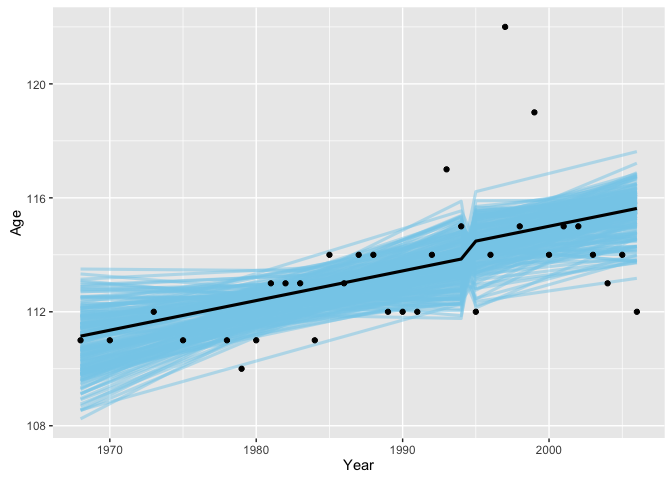
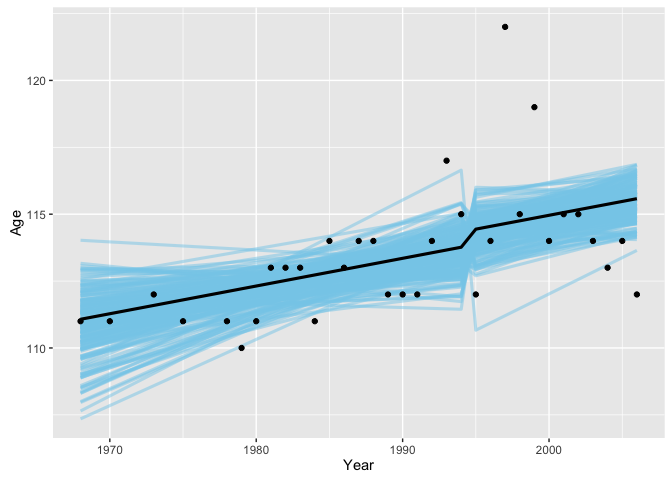
added plot from combined regression model to show it's the same.

diff --git a/analysis.md b/analysis.md
@@ -3,12 +3,12 @@ Technical comment on Evidence for a limit to human lifespan
 Philipp Berens and Tom Wallis
 October 9, 2016
 
-Dong et al. claim to present statistical evidence in favor of an absolute limit to the human lifespan. Here I present a reanalysis of a central figure in their paper showing that in fact the data is uninformative with regards to the question whether there is a limit to human lifespan or not.
+Dong et al. claim to present statistical evidence in favor of an absolute limit to the human lifespan. Here we present a reanalysis of a central figure in their paper showing that in fact the data is uninformative with regards to the question whether there is a limit to human lifespan or not.
 
 The model by the authors
 ------------------------
 
-The authors graph the maximum age reported at death (MRAD) for each year between 1968 and 2006. I acquired the data using WebPlotDigitizer and rounded the numbers to full years (which is what likely was the case for the original data). Originally the data came from the [IDL Database](http://www.supercentenarians.org/).
+The authors graph the maximum age reported at death (MRAD) for each year between 1968 and 2006. We acquired the data using WebPlotDigitizer and rounded the numbers to full years (which is what likely was the case for the original data). Originally the data came from the [IDL Database](http://www.supercentenarians.org/).
 
 Here is the raw data, as presented by the authors, fitting separate regression for years up to 1994 and after 1995.
 
@@ -44,7 +44,21 @@ summary.lm(mdl1)
     ## Multiple R-squared:  0.4163, Adjusted R-squared:  0.3559 
     ## F-statistic: 6.893 on 3 and 29 DF,  p-value: 0.001209
 
-Consistent with the paper, the fitted model has a slope of 0.153 years for years before 1995 and one of -0.276 for years afterwards (compare their Figure 2a).
+``` r
+# additionally show that you get the same model fit from this combined regression:
+tbl2 <- tbl
+tbl2$yhat <- predict(mdl1)
+
+plt <- ggplot(tbl2, aes(x = Year, y = Age, colour = Group)) +
+  geom_point() + 
+  geom_line(aes(y = yhat))
+
+plt
+```
+
+![](analysis_files/figure-markdown_github/unnamed-chunk-2-1.png)
+
+Consistent with the paper, the fitted model has a slope of 0.153 years for years before 1995 and one of -0.276 for years afterwards (compare their Figure 2a). We also plot the regression line from this combined model to show that it is the same as the authors' separate regression fits.
 
 A linear model
 --------------
@@ -159,7 +173,7 @@ bf1 / bf2
 
     ## Bayes factor analysis
     ## --------------
-    ## [1] Year * Group : 1.242026 ±0.54%
+    ## [1] Year * Group : 1.249887 ±0.57%
     ## 
     ## Against denominator:
     ##   Age ~ Year 
@@ -196,9 +210,9 @@ bmdl <- stan_glm(Age~Year*Group, tbl,
     ## Chain 1, Iteration: 1600 / 2000 [ 80%]  (Sampling)
     ## Chain 1, Iteration: 1800 / 2000 [ 90%]  (Sampling)
     ## Chain 1, Iteration: 2000 / 2000 [100%]  (Sampling)
-    ##  Elapsed Time: 1.01314 seconds (Warm-up)
-    ##                1.01499 seconds (Sampling)
-    ##                2.02812 seconds (Total)
+    ##  Elapsed Time: 1.01904 seconds (Warm-up)
+    ##                1.26417 seconds (Sampling)
+    ##                2.28321 seconds (Total)
     ## 
     ## 
     ## SAMPLING FOR MODEL 'continuous' NOW (CHAIN 2).
@@ -215,9 +229,9 @@ bmdl <- stan_glm(Age~Year*Group, tbl,
     ## Chain 2, Iteration: 1600 / 2000 [ 80%]  (Sampling)
     ## Chain 2, Iteration: 1800 / 2000 [ 90%]  (Sampling)
     ## Chain 2, Iteration: 2000 / 2000 [100%]  (Sampling)
-    ##  Elapsed Time: 1.15534 seconds (Warm-up)
-    ##                1.04143 seconds (Sampling)
-    ##                2.19677 seconds (Total)
+    ##  Elapsed Time: 1.04213 seconds (Warm-up)
+    ##                1.05329 seconds (Sampling)
+    ##                2.09542 seconds (Total)
     ## 
     ## 
     ## SAMPLING FOR MODEL 'continuous' NOW (CHAIN 3).
@@ -234,9 +248,9 @@ bmdl <- stan_glm(Age~Year*Group, tbl,
     ## Chain 3, Iteration: 1600 / 2000 [ 80%]  (Sampling)
     ## Chain 3, Iteration: 1800 / 2000 [ 90%]  (Sampling)
     ## Chain 3, Iteration: 2000 / 2000 [100%]  (Sampling)
-    ##  Elapsed Time: 0.956411 seconds (Warm-up)
-    ##                0.965434 seconds (Sampling)
-    ##                1.92185 seconds (Total)
+    ##  Elapsed Time: 0.947823 seconds (Warm-up)
+    ##                1.18388 seconds (Sampling)
+    ##                2.1317 seconds (Total)
     ## 
     ## 
     ## SAMPLING FOR MODEL 'continuous' NOW (CHAIN 4).
@@ -253,9 +267,9 @@ bmdl <- stan_glm(Age~Year*Group, tbl,
     ## Chain 4, Iteration: 1600 / 2000 [ 80%]  (Sampling)
     ## Chain 4, Iteration: 1800 / 2000 [ 90%]  (Sampling)
     ## Chain 4, Iteration: 2000 / 2000 [100%]  (Sampling)
-    ##  Elapsed Time: 1.02202 seconds (Warm-up)
-    ##                1.18632 seconds (Sampling)
-    ##                2.20833 seconds (Total)
+    ##  Elapsed Time: 0.906603 seconds (Warm-up)
+    ##                1.08557 seconds (Sampling)
+    ##                1.99217 seconds (Total)
 
 We can summarize the fitted model and plot the posterior density over the parameters:
 
@@ -274,9 +288,9 @@ bmdl
     ## 
     ## Estimates:
     ##                  Median MAD_SD
-    ## (Intercept)      -93.7  119.4 
+    ## (Intercept)      -92.7  120.8 
     ## Year               0.1    0.1 
-    ## Group>=1995        0.4    8.9 
+    ## Group>=1995        0.6    8.4 
     ## Year:Group>=1995   0.0    0.0 
     ## sigma              2.2    0.3 
     ## 
@@ -322,6 +336,13 @@ stan_diag(bmdl)
 ```
 
 ![](analysis_files/figure-markdown_github/unnamed-chunk-12-1.png)
+
+Extended data figure
+--------------------
+
+The authors present a similar dataset from an independent source, the Gerontological Research Group, in Extended Data Figure 6. They find similar results to those reported for the main analysis, and they argue that this provides independent evidence for their central analysis.
+
+We again aquired these data using WebPlotDigitizer, and present them below.
 
 Conclusion
 ----------
